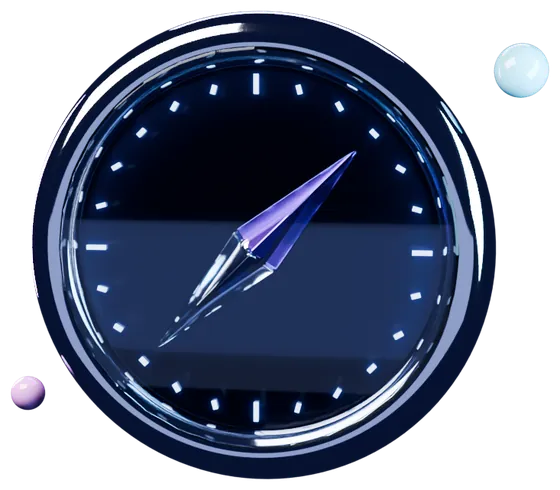
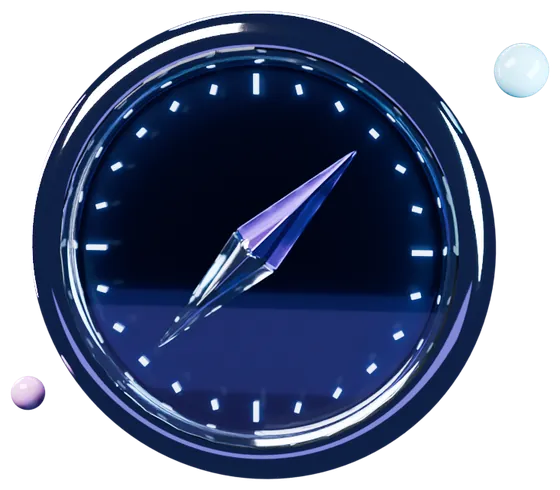
V3: all 22 Blender studio renders integrated (tonal lift for dark scenes)
Claude-Session: https://claude.ai/code/session_01GbB16YajsdDadZsTJDQ7U4

diff --git a/assets3d/convert.py b/assets3d/convert.py
@@ -4,6 +4,8 @@ Usage: convert.py [name ...]   (default: every PNG in /tmp/art_png).  Source PNG
 import glob, os, sys
 from PIL import Image
 SRC = '/tmp/art_png'; OUT = os.path.join(os.path.dirname(__file__), '..', 'assets', 'art'); os.makedirs(OUT, exist_ok=True)
+# Per-scene tonal lift for scenes that render dark on the always-dark page stage (gamma < 1 brightens mid-tones; alpha is untouched)
+GAMMA = {'compass': .78, 'mail': .8, 'book': .78, 'workflow': .8, 'ads': .8, 'doc': .85, 'lost': .85, 'steps': .85, 'lens': .85, 'layers': .9}
 names = sys.argv[1:] or [os.path.splitext(os.path.basename(f))[0] for f in sorted(glob.glob(SRC + '/*.png'))]
 for name in names:
     im = Image.open(f'{SRC}/{name}.png').convert('RGBA')
@@ -11,6 +13,9 @@ for name in names:
     if bbox:
         l, t, r, b = bbox; pad = 14
         im = im.crop((max(0, l - pad), max(0, t - pad), min(im.width, r + pad), min(im.height, b + pad)))
+    g = GAMMA.get(name)
+    if g:
+        r, gch, b, a = im.split(); lut = [round(255 * (i / 255) ** g) for i in range(256)]; im = Image.merge('RGBA', (r.point(lut), gch.point(lut), b.point(lut), a))
     big = im if im.width <= 1100 else im.resize((1100, round(im.height * 1100 / im.width)), Image.LANCZOS)
     small = big.resize((560, round(big.height * 560 / big.width)), Image.LANCZOS)
     big.save(f'{OUT}/{name}.webp', 'WEBP', quality=82, method=6, alpha_quality=88)
